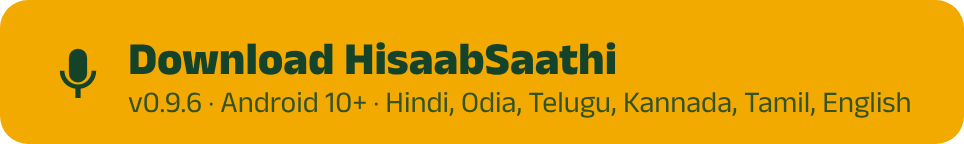
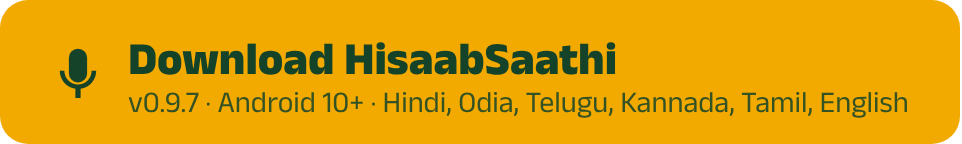
README: download button for 0.9.7

diff --git a/README.md b/README.md
@@ -3,7 +3,7 @@
 </p>
 
 <p align="center">
-  <a href="https://huggingface.co/AcxelinLabs/hisaabsaathi-model/resolve/main/HisaabSaathi.apk"><img src="docs/brand/download-app.png" alt="Download HisaabSaathi: v0.9.6, Android 10+" height="72"></a>
+  <a href="https://huggingface.co/AcxelinLabs/hisaabsaathi-model/resolve/main/HisaabSaathi.apk"><img src="docs/brand/download-app.png" alt="Download HisaabSaathi: v0.9.7, Android 10+" height="72"></a>
 </p>
 
 <p align="center">
